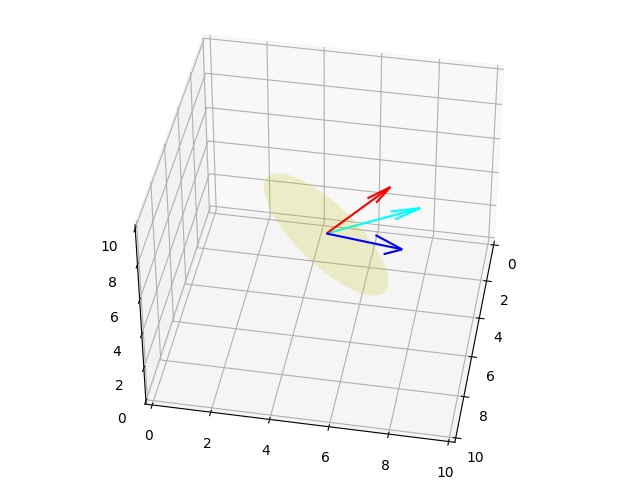
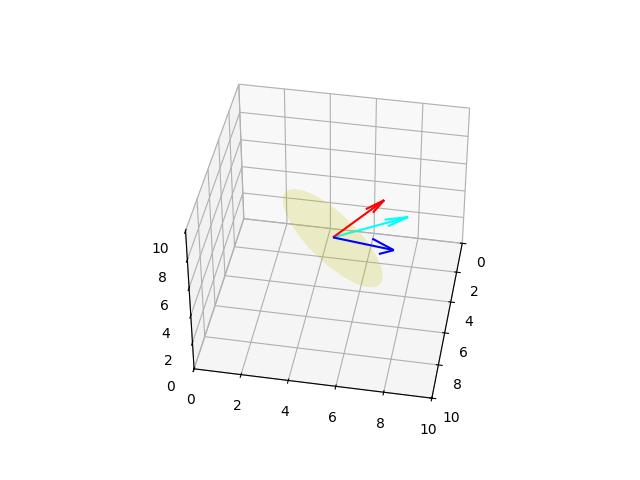
-

diff --git a/phy/phy_073_rot/phy_073_rot.html b/phy/phy_073_rot/phy_073_rot.html
@@ -244,14 +244,13 @@ class="sourceCode python"><code class="sourceCode python"><span id="cb1-1"><a hr
 <span id="cb1-15"><a href="#cb1-15" aria-hidden="true" tabindex="-1"></a></span>
 <span id="cb1-16"><a href="#cb1-16" aria-hidden="true" tabindex="-1"></a>v1r <span class="op">=</span> rotate(v1, n1, theta)</span>
 <span id="cb1-17"><a href="#cb1-17" aria-hidden="true" tabindex="-1"></a></span>
-<span id="cb1-18"><a href="#cb1-18" aria-hidden="true" tabindex="-1"></a>fig <span class="op">=</span> plt.figure()</span>
-<span id="cb1-19"><a href="#cb1-19" aria-hidden="true" tabindex="-1"></a>ax <span class="op">=</span> Axes3D(fig)</span>
-<span id="cb1-20"><a href="#cb1-20" aria-hidden="true" tabindex="-1"></a>plot3d.plot_vector(fig, o1, v1)</span>
-<span id="cb1-21"><a href="#cb1-21" aria-hidden="true" tabindex="-1"></a>plot3d.plot_vector(fig, o1, v1r, <span class="st">&#39;cyan&#39;</span>)</span>
-<span id="cb1-22"><a href="#cb1-22" aria-hidden="true" tabindex="-1"></a>plot3d.plot_vector(fig, o1, <span class="dv">3</span><span class="op">*</span>np.array(n1), <span class="st">&#39;red&#39;</span>)</span>
-<span id="cb1-23"><a href="#cb1-23" aria-hidden="true" tabindex="-1"></a>plot3d.plot_plane(ax, o1, n1, size<span class="op">=</span><span class="dv">3</span>)</span>
-<span id="cb1-24"><a href="#cb1-24" aria-hidden="true" tabindex="-1"></a>ax.view_init(elev<span class="op">=</span><span class="fl">40.</span>, azim<span class="op">=</span><span class="dv">10</span>)</span>
-<span id="cb1-25"><a href="#cb1-25" aria-hidden="true" tabindex="-1"></a>plt.savefig(<span class="st">&#39;phy_073_rot_02.jpg&#39;</span>)</span></code></pre></div>
+<span id="cb1-18"><a href="#cb1-18" aria-hidden="true" tabindex="-1"></a>fig, ax <span class="op">=</span> plt.subplots(<span class="dv">1</span>, <span class="dv">1</span>, subplot_kw<span class="op">=</span>{<span class="st">&#39;projection&#39;</span>: <span class="st">&#39;3d&#39;</span>})</span>
+<span id="cb1-19"><a href="#cb1-19" aria-hidden="true" tabindex="-1"></a>plot3d.plot_vector(ax, o1, v1)</span>
+<span id="cb1-20"><a href="#cb1-20" aria-hidden="true" tabindex="-1"></a>plot3d.plot_vector(ax, o1, v1r, <span class="st">&#39;cyan&#39;</span>)</span>
+<span id="cb1-21"><a href="#cb1-21" aria-hidden="true" tabindex="-1"></a>plot3d.plot_vector(ax, o1, <span class="dv">3</span><span class="op">*</span>np.array(n1), <span class="st">&#39;red&#39;</span>)</span>
+<span id="cb1-22"><a href="#cb1-22" aria-hidden="true" tabindex="-1"></a>plot3d.plot_plane(ax, o1, n1, size<span class="op">=</span><span class="dv">3</span>)</span>
+<span id="cb1-23"><a href="#cb1-23" aria-hidden="true" tabindex="-1"></a>ax.view_init(elev<span class="op">=</span><span class="fl">40.</span>, azim<span class="op">=</span><span class="dv">10</span>)</span>
+<span id="cb1-24"><a href="#cb1-24" aria-hidden="true" tabindex="-1"></a>plt.savefig(<span class="st">&#39;phy_073_rot_02.jpg&#39;</span>)</span></code></pre></div>
 <p><img src="phy_073_rot_02.jpg" /></p>
 <p>Teori</p>
 <p>3D A,B vektörleri birbirine dikgen ve bir 2D uzay yaratıyorlar, ki
@@ -466,14 +465,13 @@ class="sourceCode python"><code class="sourceCode python"><span id="cb3-1"><a hr
 <span id="cb3-7"><a href="#cb3-7" aria-hidden="true" tabindex="-1"></a>r1 <span class="op">=</span> axisangle_to_q(n1, theta)</span>
 <span id="cb3-8"><a href="#cb3-8" aria-hidden="true" tabindex="-1"></a>v1r <span class="op">=</span> rotate(r1, v1)</span>
 <span id="cb3-9"><a href="#cb3-9" aria-hidden="true" tabindex="-1"></a></span>
-<span id="cb3-10"><a href="#cb3-10" aria-hidden="true" tabindex="-1"></a>fig <span class="op">=</span> plt.figure()</span>
-<span id="cb3-11"><a href="#cb3-11" aria-hidden="true" tabindex="-1"></a>ax <span class="op">=</span> Axes3D(fig)</span>
-<span id="cb3-12"><a href="#cb3-12" aria-hidden="true" tabindex="-1"></a>plot3d.plot_vector(fig, o1, v1)</span>
-<span id="cb3-13"><a href="#cb3-13" aria-hidden="true" tabindex="-1"></a>plot3d.plot_vector(fig, o1, v1r, <span class="st">&#39;cyan&#39;</span>)</span>
-<span id="cb3-14"><a href="#cb3-14" aria-hidden="true" tabindex="-1"></a>plot3d.plot_vector(fig, o1, <span class="dv">3</span><span class="op">*</span>np.array(n1), <span class="st">&#39;red&#39;</span>)</span>
-<span id="cb3-15"><a href="#cb3-15" aria-hidden="true" tabindex="-1"></a>plot3d.plot_plane(ax, o1, n1, size<span class="op">=</span><span class="dv">3</span>)</span>
-<span id="cb3-16"><a href="#cb3-16" aria-hidden="true" tabindex="-1"></a>ax.view_init(elev<span class="op">=</span><span class="fl">10.</span>, azim<span class="op">=</span><span class="dv">50</span>)</span>
-<span id="cb3-17"><a href="#cb3-17" aria-hidden="true" tabindex="-1"></a>plt.savefig(<span class="st">&#39;phy_073_rot_03.jpg&#39;</span>)</span></code></pre></div>
+<span id="cb3-10"><a href="#cb3-10" aria-hidden="true" tabindex="-1"></a>fig, ax <span class="op">=</span> plt.subplots(<span class="dv">1</span>, <span class="dv">1</span>, subplot_kw<span class="op">=</span>{<span class="st">&#39;projection&#39;</span>: <span class="st">&#39;3d&#39;</span>})</span>
+<span id="cb3-11"><a href="#cb3-11" aria-hidden="true" tabindex="-1"></a>plot3d.plot_vector(ax, o1, v1)</span>
+<span id="cb3-12"><a href="#cb3-12" aria-hidden="true" tabindex="-1"></a>plot3d.plot_vector(ax, o1, v1r, <span class="st">&#39;cyan&#39;</span>)</span>
+<span id="cb3-13"><a href="#cb3-13" aria-hidden="true" tabindex="-1"></a>plot3d.plot_vector(ax, o1, <span class="dv">3</span><span class="op">*</span>np.array(n1), <span class="st">&#39;red&#39;</span>)</span>
+<span id="cb3-14"><a href="#cb3-14" aria-hidden="true" tabindex="-1"></a>plot3d.plot_plane(ax, o1, n1, size<span class="op">=</span><span class="dv">3</span>)</span>
+<span id="cb3-15"><a href="#cb3-15" aria-hidden="true" tabindex="-1"></a>ax.view_init(elev<span class="op">=</span><span class="fl">10.</span>, azim<span class="op">=</span><span class="dv">50</span>)</span>
+<span id="cb3-16"><a href="#cb3-16" aria-hidden="true" tabindex="-1"></a>plt.savefig(<span class="st">&#39;phy_073_rot_03.jpg&#39;</span>)</span></code></pre></div>
 <p><img src="phy_073_rot_03.jpg" /></p>
 <p>Farklı bir açıdan daha bakalım, bazen kamera bakış yönüne göre sonuç
 tam belli olmayabiliyor. Etrafında dönüş yapılan <span
@@ -490,14 +488,13 @@ class="sourceCode python"><code class="sourceCode python"><span id="cb4-1"><a hr
 <span id="cb4-7"><a href="#cb4-7" aria-hidden="true" tabindex="-1"></a>r2 <span class="op">=</span> axisangle_to_q(n2, theta)</span>
 <span id="cb4-8"><a href="#cb4-8" aria-hidden="true" tabindex="-1"></a>v2r <span class="op">=</span> rotate(r2, v2)</span>
 <span id="cb4-9"><a href="#cb4-9" aria-hidden="true" tabindex="-1"></a></span>
-<span id="cb4-10"><a href="#cb4-10" aria-hidden="true" tabindex="-1"></a>fig <span class="op">=</span> plt.figure()</span>
-<span id="cb4-11"><a href="#cb4-11" aria-hidden="true" tabindex="-1"></a>ax <span class="op">=</span> Axes3D(fig)</span>
-<span id="cb4-12"><a href="#cb4-12" aria-hidden="true" tabindex="-1"></a>plot3d.plot_vector(fig, o2, v2)</span>
-<span id="cb4-13"><a href="#cb4-13" aria-hidden="true" tabindex="-1"></a>plot3d.plot_vector(fig, o2, v2r, <span class="st">&#39;cyan&#39;</span>)</span>
-<span id="cb4-14"><a href="#cb4-14" aria-hidden="true" tabindex="-1"></a>plot3d.plot_vector(fig, o2, <span class="dv">3</span><span class="op">*</span>np.array(n2), <span class="st">&#39;red&#39;</span>)</span>
-<span id="cb4-15"><a href="#cb4-15" aria-hidden="true" tabindex="-1"></a>plot3d.plot_plane(ax, o2, n2, size<span class="op">=</span><span class="dv">3</span>)</span>
-<span id="cb4-16"><a href="#cb4-16" aria-hidden="true" tabindex="-1"></a>ax.view_init(elev<span class="op">=</span><span class="fl">0.</span>, azim<span class="op">=</span><span class="dv">90</span>)</span>
-<span id="cb4-17"><a href="#cb4-17" aria-hidden="true" tabindex="-1"></a>plt.savefig(<span class="st">&#39;phy_073_rot_04.jpg&#39;</span>)</span></code></pre></div>
+<span id="cb4-10"><a href="#cb4-10" aria-hidden="true" tabindex="-1"></a>fig, ax <span class="op">=</span> plt.subplots(<span class="dv">1</span>, <span class="dv">1</span>, subplot_kw<span class="op">=</span>{<span class="st">&#39;projection&#39;</span>: <span class="st">&#39;3d&#39;</span>})</span>
+<span id="cb4-11"><a href="#cb4-11" aria-hidden="true" tabindex="-1"></a>plot3d.plot_vector(ax, o2, v2)</span>
+<span id="cb4-12"><a href="#cb4-12" aria-hidden="true" tabindex="-1"></a>plot3d.plot_vector(ax, o2, v2r, <span class="st">&#39;cyan&#39;</span>)</span>
+<span id="cb4-13"><a href="#cb4-13" aria-hidden="true" tabindex="-1"></a>plot3d.plot_vector(ax, o2, <span class="dv">3</span><span class="op">*</span>np.array(n2), <span class="st">&#39;red&#39;</span>)</span>
+<span id="cb4-14"><a href="#cb4-14" aria-hidden="true" tabindex="-1"></a>plot3d.plot_plane(ax, o2, n2, size<span class="op">=</span><span class="dv">3</span>)</span>
+<span id="cb4-15"><a href="#cb4-15" aria-hidden="true" tabindex="-1"></a>ax.view_init(elev<span class="op">=</span><span class="fl">0.</span>, azim<span class="op">=</span><span class="dv">90</span>)</span>
+<span id="cb4-16"><a href="#cb4-16" aria-hidden="true" tabindex="-1"></a>plt.savefig(<span class="st">&#39;phy_073_rot_04.jpg&#39;</span>)</span></code></pre></div>
 <p><img src="phy_073_rot_04.jpg" /></p>
 <p>Kuaterniyon hesabının rotasyon yaptığının belki de bir diğer ispatı
 <span class="math inline">\(q v q^{-1}\)</span> hesabını (2) formundaki

diff --git a/phy/phy_073_rot/phy_073_rot.md b/phy/phy_073_rot/phy_073_rot.md
@@ -143,11 +143,10 @@ theta = np.deg2rad(20)
 
 v1r = rotate(v1, n1, theta)
 
-fig = plt.figure()
-ax = Axes3D(fig)
-plot3d.plot_vector(fig, o1, v1)
-plot3d.plot_vector(fig, o1, v1r, 'cyan')
-plot3d.plot_vector(fig, o1, 3*np.array(n1), 'red')
+fig, ax = plt.subplots(1, 1, subplot_kw={'projection': '3d'})
+plot3d.plot_vector(ax, o1, v1)
+plot3d.plot_vector(ax, o1, v1r, 'cyan')
+plot3d.plot_vector(ax, o1, 3*np.array(n1), 'red')
 plot3d.plot_plane(ax, o1, n1, size=3)
 ax.view_init(elev=40., azim=10)
 plt.savefig('phy_073_rot_02.jpg')
@@ -396,11 +395,10 @@ theta = np.deg2rad(30)
 r1 = axisangle_to_q(n1, theta)
 v1r = rotate(r1, v1)
 
-fig = plt.figure()
-ax = Axes3D(fig)
-plot3d.plot_vector(fig, o1, v1)
-plot3d.plot_vector(fig, o1, v1r, 'cyan')
-plot3d.plot_vector(fig, o1, 3*np.array(n1), 'red')
+fig, ax = plt.subplots(1, 1, subplot_kw={'projection': '3d'})
+plot3d.plot_vector(ax, o1, v1)
+plot3d.plot_vector(ax, o1, v1r, 'cyan')
+plot3d.plot_vector(ax, o1, 3*np.array(n1), 'red')
 plot3d.plot_plane(ax, o1, n1, size=3)
 ax.view_init(elev=10., azim=50)
 plt.savefig('phy_073_rot_03.jpg')
@@ -422,11 +420,10 @@ theta = np.deg2rad(90)
 r2 = axisangle_to_q(n2, theta)
 v2r = rotate(r2, v2)
 
-fig = plt.figure()
-ax = Axes3D(fig)
-plot3d.plot_vector(fig, o2, v2)
-plot3d.plot_vector(fig, o2, v2r, 'cyan')
-plot3d.plot_vector(fig, o2, 3*np.array(n2), 'red')
+fig, ax = plt.subplots(1, 1, subplot_kw={'projection': '3d'})
+plot3d.plot_vector(ax, o2, v2)
+plot3d.plot_vector(ax, o2, v2r, 'cyan')
+plot3d.plot_vector(ax, o2, 3*np.array(n2), 'red')
 plot3d.plot_plane(ax, o2, n2, size=3)
 ax.view_init(elev=0., azim=90)
 plt.savefig('phy_073_rot_04.jpg')
